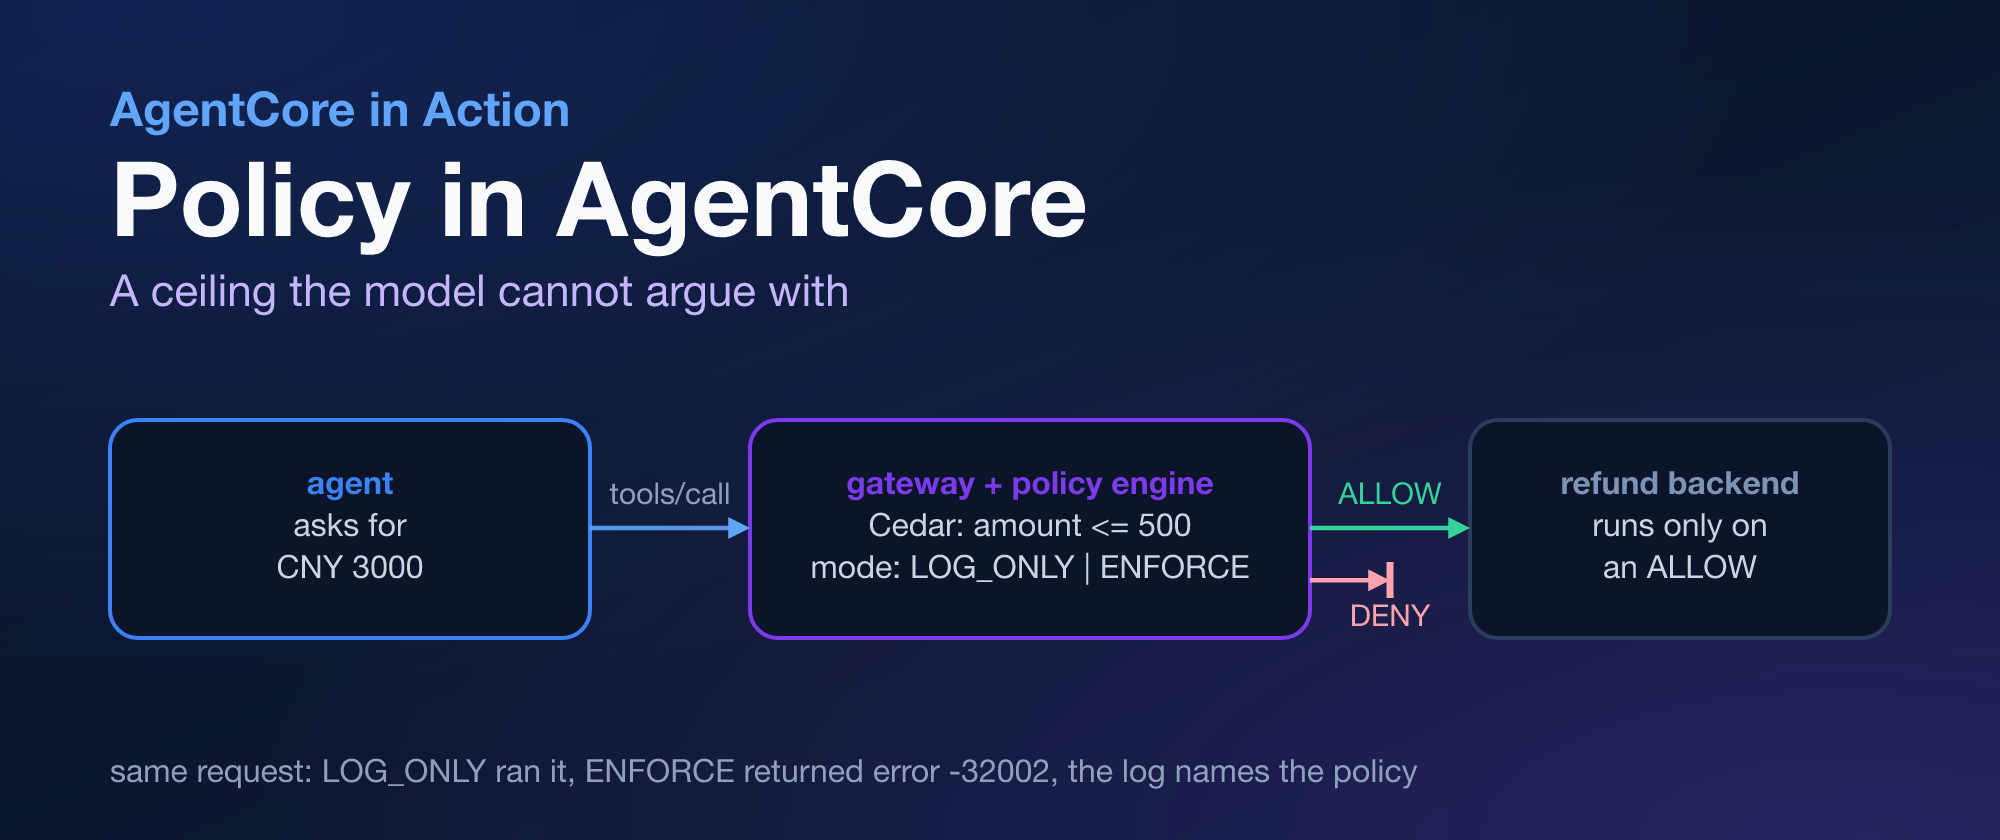
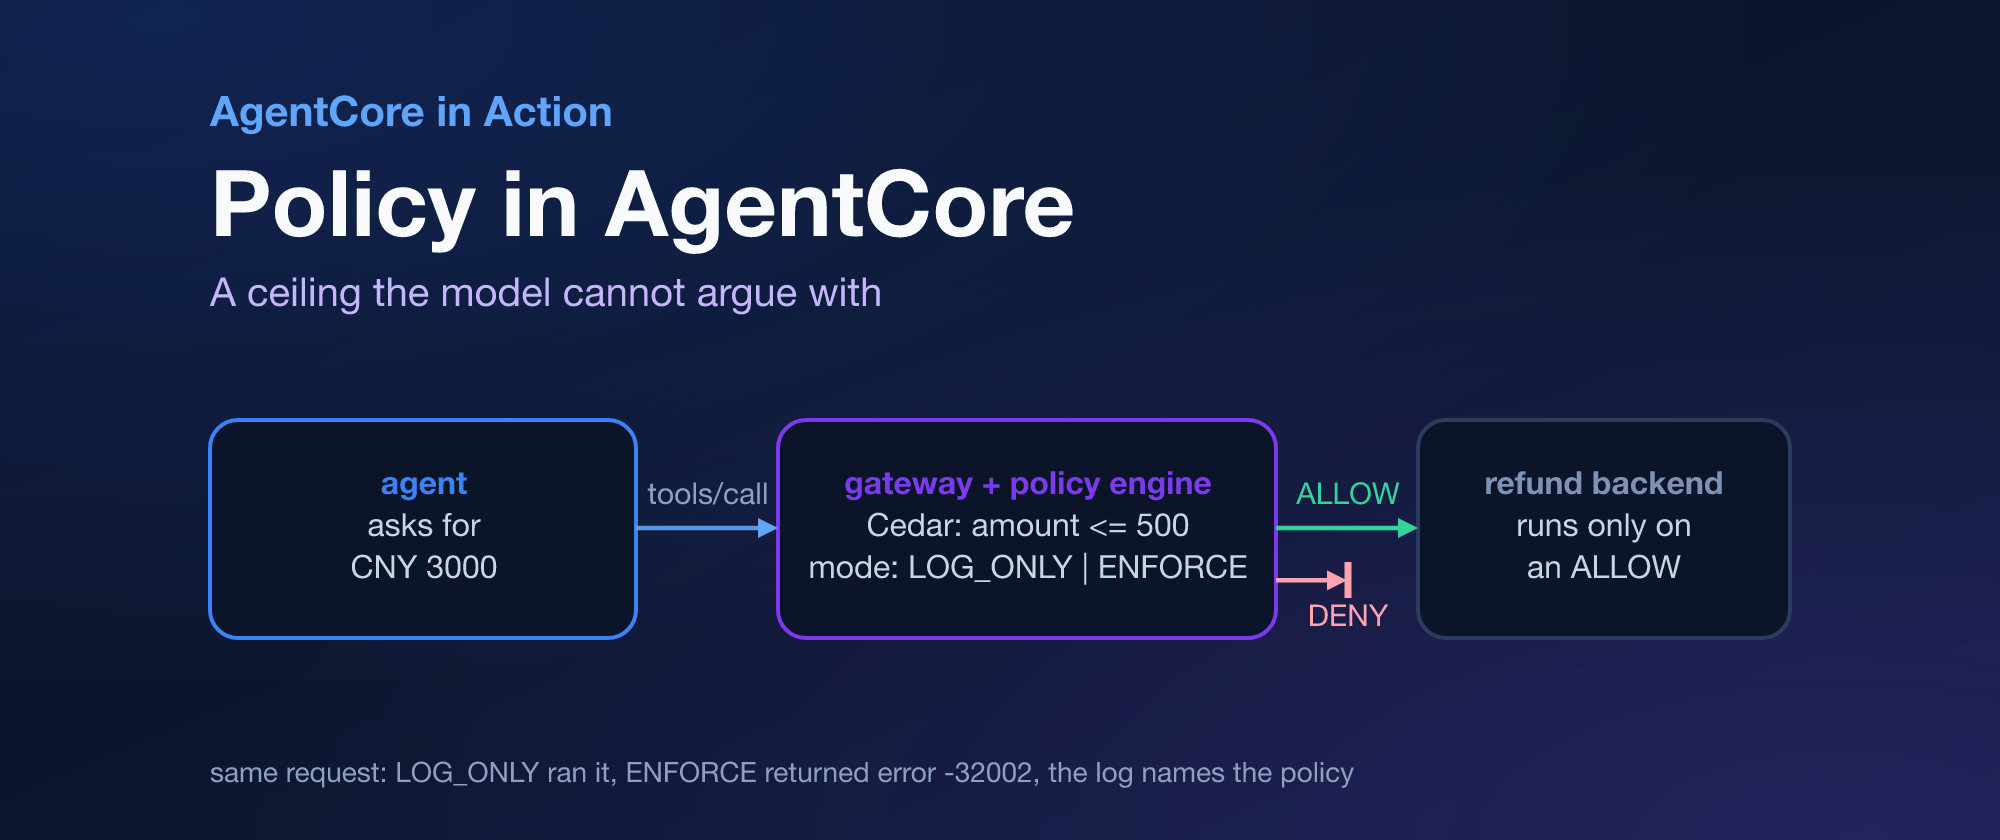
UC04 cover: safe-area layout for the Dev.to variant
The 2.38:1 cover is also the 1200x627 social card source, which crops 9.8%
off each side. Everything now sits inside a 10.5% margin, sized in content-band
units so the art shrinks instead of running past the edge.

diff --git a/articles/images/agentcore-policy-enforce-mode/gen_figures.py b/articles/images/agentcore-policy-enforce-mode/gen_figures.py
@@ -352,8 +352,14 @@ def figure_architecture() -> None:
 # covers                                                                      #
 # --------------------------------------------------------------------------- #
 
-def cover(w: int, h: int, name: str) -> None:
-    """Normalised layout, so the same composition works at 1200x675 and 1000x420."""
+def cover(w: int, h: int, name: str, safe: float = 0.0) -> None:
+    """Normalised layout, so the same composition works at 1200x675 and 1000x420.
+
+    `safe` is the fraction of width that must survive a 1.91:1 centre crop. The
+    Dev.to cover ships at 2.38:1 for the 1000x420 article slot, but Dev.to also
+    feeds the same URL to its 1200x627 social card, which crops 9.8% off each
+    side. Padding the art to >= 10.5% keeps both crops intact.
+    """
     out = [
         f'<svg xmlns="http://www.w3.org/2000/svg" viewBox="0 0 {w} {h}" width="{w}" '
         f'height="{h}" role="img">',
@@ -373,9 +379,16 @@ def cover(w: int, h: int, name: str) -> None:
         f'<rect width="{w}" height="{h}" fill="url(#g2)"/>',
     ]
 
+    # content band: everything is positioned inside [pad, w-pad] and every size
+    # is expressed in `u`, so widening the margin shrinks the art proportionally
+    # instead of pushing text past the edge
+    pad = round(max(0.055, safe) * w)
+    cw = w - 2 * pad                     # width the composition may use
+    u = cw / 0.89                        # 1.0u == one old full-width canvas
+
     # explicit triangular heads, exactly as in the architecture figure: the
     # tip is computed, never inherited from a <marker>
-    hl = max(10.0, 13.0 * w / 1200)      # head length, canvas units
+    hl = max(10.0, 13.0 * u / 1200)      # head length, canvas units
     hw = hl * 0.5                        # half width
 
     def head(x, y, colour):
@@ -390,18 +403,18 @@ def cover(w: int, h: int, name: str) -> None:
         out.append(f'<line x1="{x1:.2f}" y1="{y1:.2f}" x2="{ex:.2f}" y2="{y2:.2f}" '
                    f'stroke="{colour}" stroke-width="{width}"{op}/>')
         head(x2, y2, colour)
-    pad = round(0.055 * w)
+
     out.append(
-        f'<text x="{pad:.0f}" y="{0.15*h:.0f}" font-family="{SANS}" font-size="{0.024*w:.0f}" '
+        f'<text x="{pad:.0f}" y="{0.15*h:.0f}" font-family="{SANS}" font-size="{0.024*u:.0f}" '
         f'fill="#60a5fa" font-weight="600">AgentCore in Action</text>'
     )
     out.append(
-        f'<text x="{pad:.0f}" y="{0.28*h:.0f}" font-family="{SANS}" font-size="{0.052*w:.0f}" '
+        f'<text x="{pad:.0f}" y="{0.28*h:.0f}" font-family="{SANS}" font-size="{0.052*u:.0f}" '
         f'fill="#f8fafc" font-weight="700">Policy in AgentCore</text>'
     )
     out.append(
         f'<text x="{pad:.0f}" y="{0.365*h:.0f}" font-family="{SANS}" '
-        f'font-size="{0.022*w:.0f}" fill="#c4b5fd">'
+        f'font-size="{0.022*u:.0f}" fill="#c4b5fd">'
         f'A ceiling the model cannot argue with</text>'
     )
 
@@ -410,11 +423,11 @@ def cover(w: int, h: int, name: str) -> None:
     top = round(0.50 * h)
     bh = round(0.26 * h)
     boxes = {
-        "agent":    dict(x=pad,               w=round(0.24*w), stroke="#3b82f6",
+        "agent":    dict(x=pad,               w=round(0.24*u), stroke="#3b82f6",
                          head="agent", body=["asks for", "CNY 3000"]),
-        "gateway":  dict(x=round(pad+0.32*w), w=round(0.28*w), stroke="#7c3aed",
+        "gateway":  dict(x=round(pad+0.32*u), w=round(0.28*u), stroke="#7c3aed",
                          head="gateway + policy engine", body=["Cedar: amount <= 500", "mode: LOG_ONLY | ENFORCE"]),
-        "backend":  dict(x=round(pad+0.68*w), w=round(0.21*w), stroke="#2b3c5e",
+        "backend":  dict(x=round(pad+0.68*u), w=round(0.21*u), stroke="#2b3c5e",
                          head="refund backend", body=["runs only on", "an ALLOW"]),
     }
     fs = round(0.0165 * w)
@@ -473,7 +486,7 @@ def cover(w: int, h: int, name: str) -> None:
 
     out.append(
         f'<text x="{pad:.0f}" y="{0.93*h:.0f}" font-family="{SANS}" '
-        f'font-size="{0.016*w:.0f}" fill="#8ea0bd">'
+        f'font-size="{0.016*u:.0f}" fill="#8ea0bd">'
         f'same request: LOG_ONLY ran it, ENFORCE returned error -32002, the log names the policy</text>'
     )
     out.append("</svg>")
@@ -648,7 +661,7 @@ def main() -> None:
     panels()
     figure_architecture()
     cover(1200, 675, "cover")
-    cover(1000, 420, "cover-devto")
+    cover(1000, 420, "cover-devto", safe=0.105)
     cover(1400, 788, "cover-medium")   # Medium feature image, same 16:9 composition
 
 
